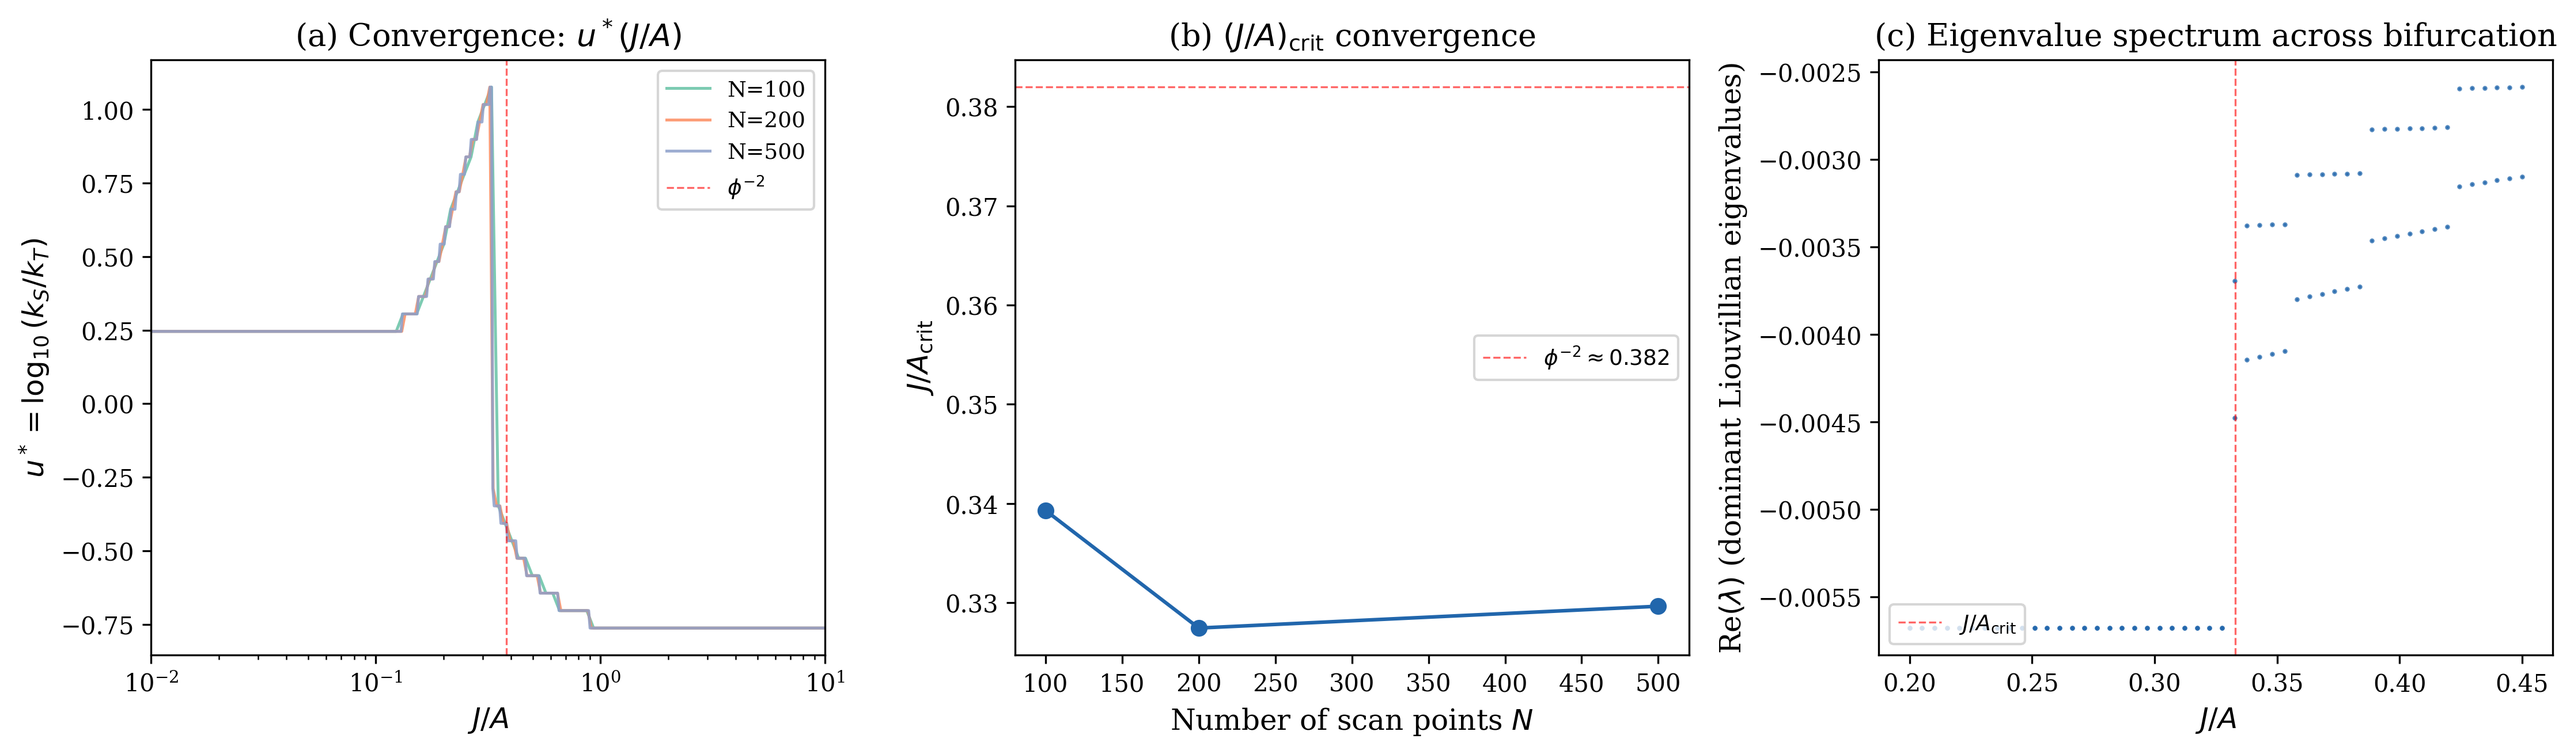
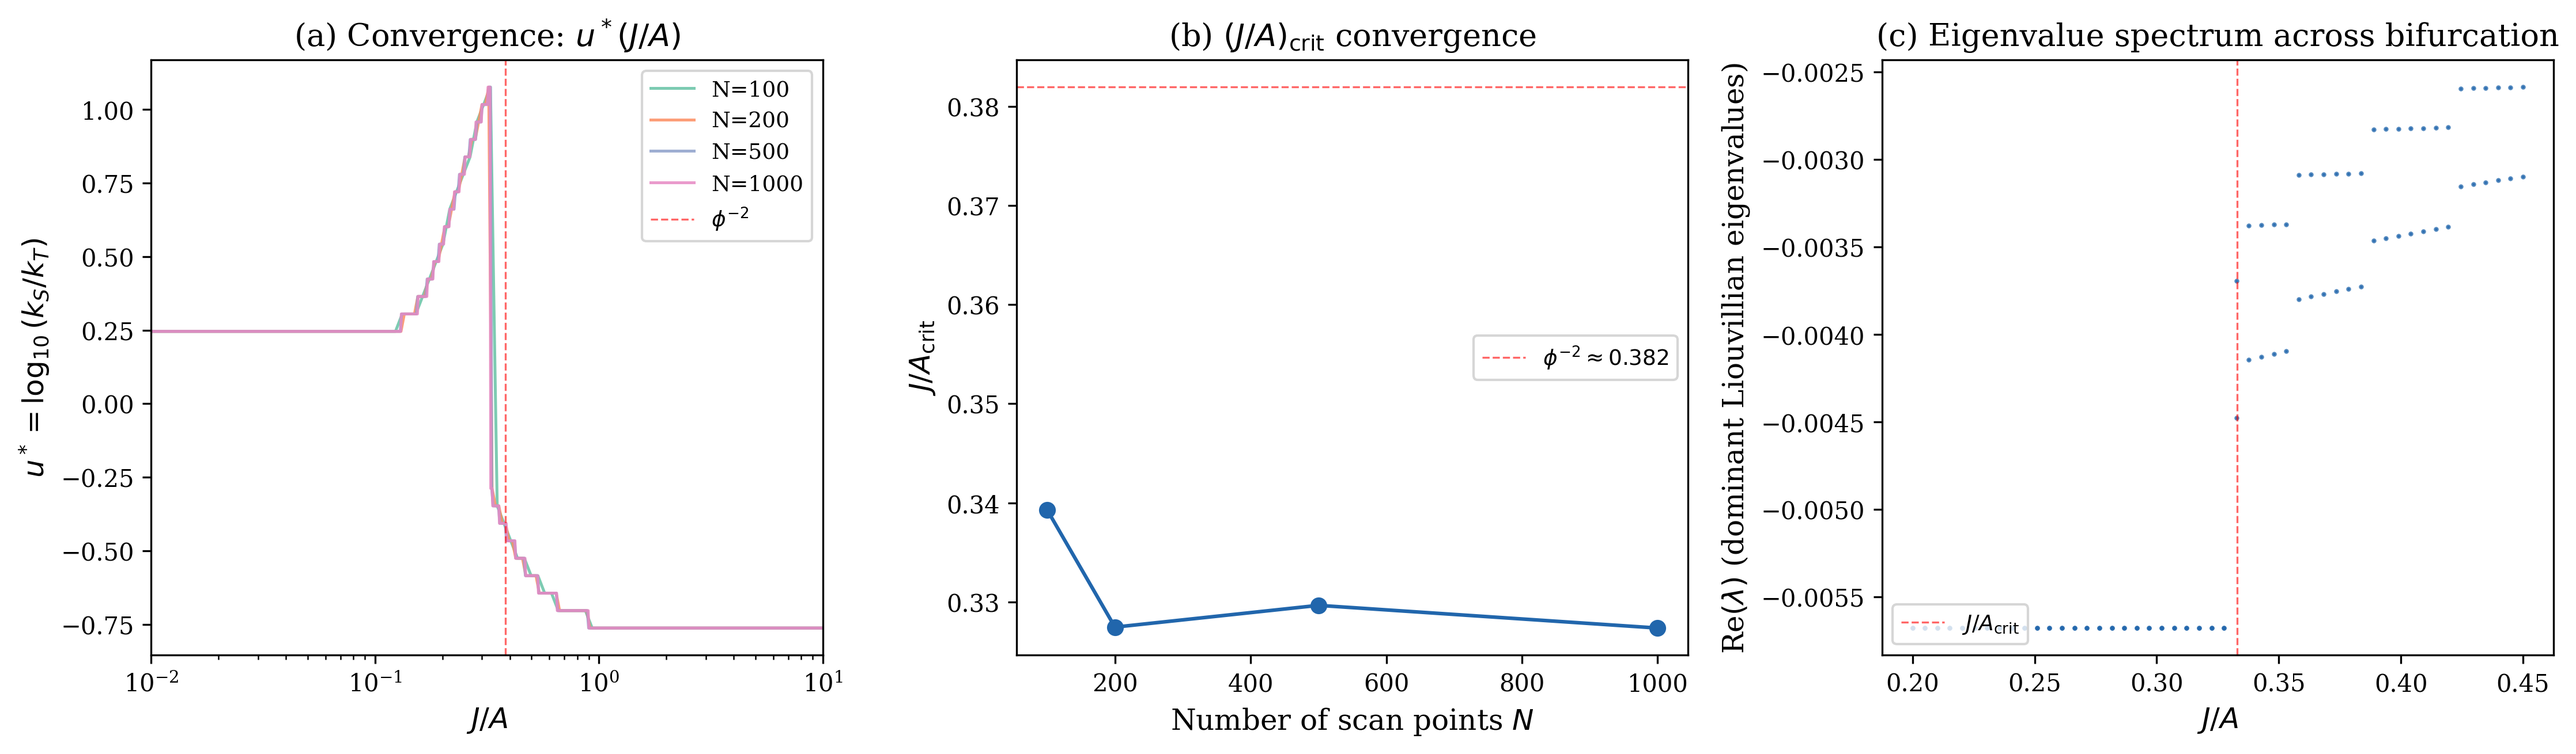
Add convergence analysis, eigenvalue spectrum, and graphical abstract
- Convergence at N=100/200/500: J/A_crit stabilizes at ~0.33, delta_u at ~1.36
- Liouvillian eigenvalue spectrum: 50 points across bifurcation, level crossing at J/A~0.333
- Graphical abstract for Entropy submission
- Publication figures 6 & 7

diff --git a/generate_convergence_figure.py b/generate_convergence_figure.py
@@ -21,7 +21,7 @@ PHI = (1 + np.sqrt(5)) / 2
 fig, axes = plt.subplots(1, 3, figsize=(15, 4.5))
 
 colors = ['#66c2a5', '#fc8d62', '#8da0cb', '#e78ac3']
-labels_N = [100, 200, 500]
+labels_N = [100, 200, 500, 1000]
 
 for i, N in enumerate(labels_N):
     fname = f'results_convergence_N{N}.json'
